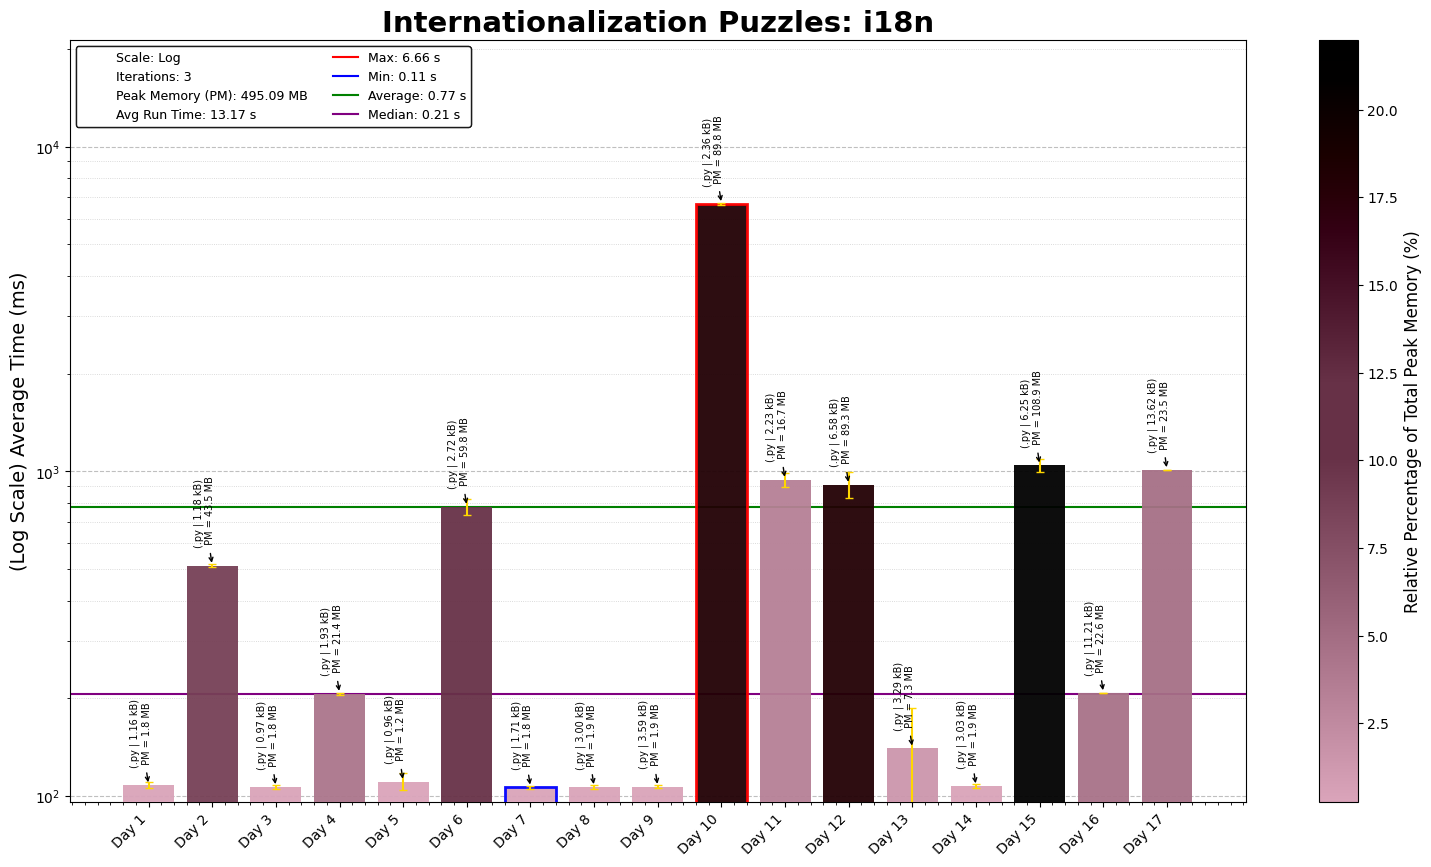
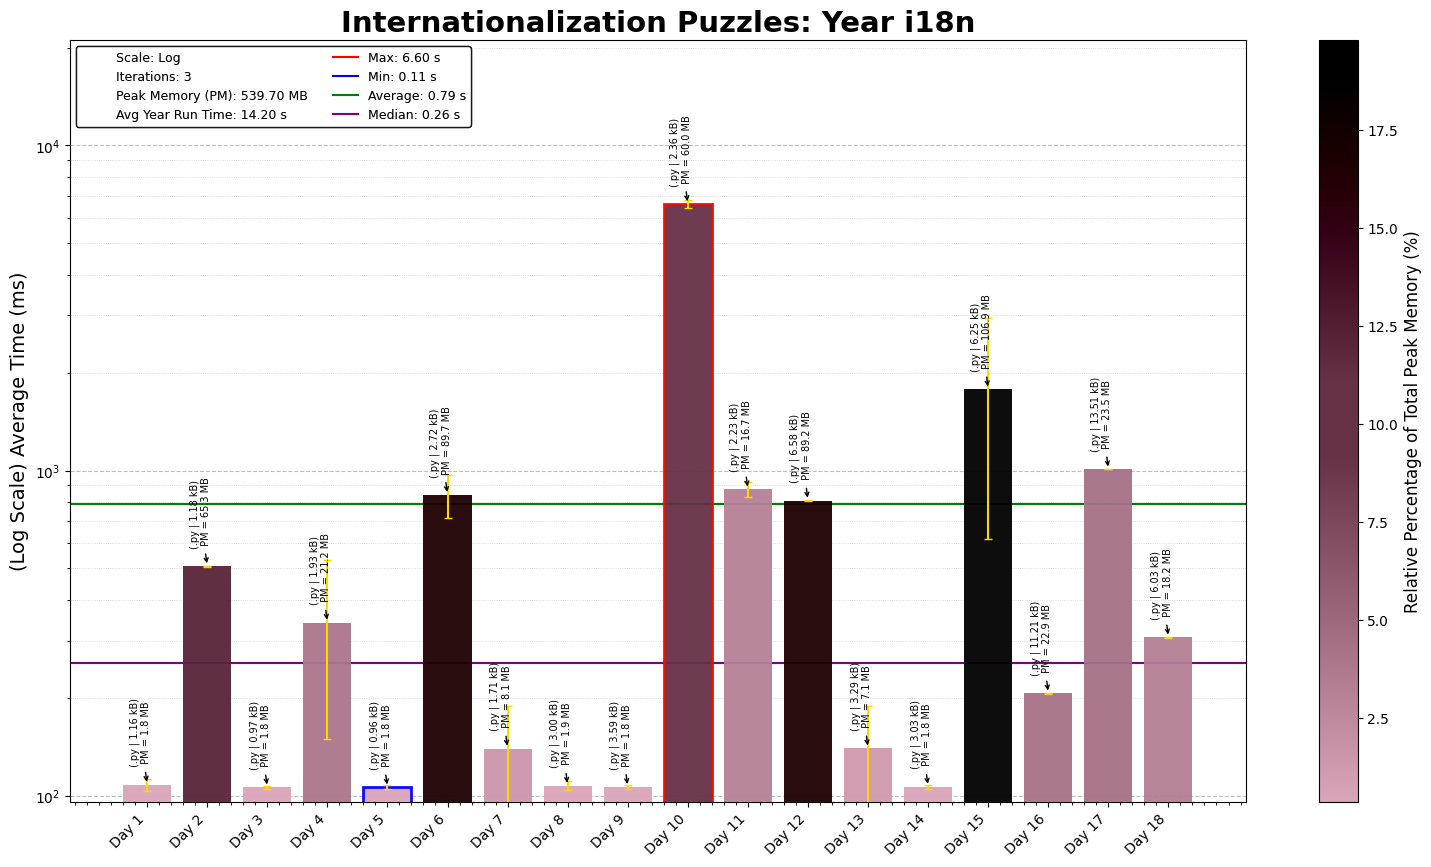
i18n Day 18 Final

diff --git a/i18n/18/i18nDay18.py b/i18n/18/i18nDay18.py
@@ -7,14 +7,11 @@ Brief: [Rex To Lynx]
 
 #!/usr/bin/env python3
 
-import os, re, copy, time
-import ast, operator
-import numpy as np
-import pandas as pd
+import os, re, copy, time, ast, operator
 start_time = time.time()
 
 # Load the input data from the specified file path
-D18_file = "Day18_input1.txt"
+D18_file = "Day18_input.txt"
 D18_file_path = os.path.join(os.path.dirname(os.path.abspath(__file__)), D18_file)
 
 # Read and sort input data into a grid
@@ -22,19 +19,14 @@ with open(D18_file_path, encoding="utf-8") as file:
     input_data = file.read().strip().split('\n')
 
 class Scam_Checker:
-    BIDI_CONTROLS = {
-        '\u200e': ("LRM", '⇉'), '\u200f': ("RLM", '⇇'),
-        '\u202a': ("LRE", '→'), '\u202b': ("RLE", '←'),
-        '\u202d': ("LRO", '}'), '\u202e': ("RLO", '{'),
-        '\u2066': ("LRI", '>'), '\u2067': ("RLI", '<'),
-        '\u2069': ("PDI", '^'), '\u202c': ("PDF", '◌'),
-        '\u2068': ("FSI", '⋄'),
-    }
-    REVERSE_DICT = {'(':')', ')':'('}
+    BIDI_CONTROLS = {'\u2067': '<', '\u2066': '>', '\u2069': '^'}
+    REVERSE_DICT  = {'(':')', ')':'(', '[': ']', ']': '[', '{': '}', '}': '{'}
 
-    @staticmethod
-    def convert_eq_dict(equation, shift = 0):
-        return {char_idx + shift: char for char_idx, char in enumerate(equation)}
+    def parse_equation(self, init_eq):
+        token_pattern = re.compile(
+            fr'([{re.escape("".join(self.BIDI_CONTROLS))}])|(\d+)|([()+\-*/])'
+        )
+        return [m.group(0) for part in init_eq.split() for m in token_pattern.finditer(part)]
 
     @staticmethod
     def evaluate_sum(equation: str):
@@ -43,7 +35,6 @@ class Scam_Checker:
             ast.Mult: operator.mul, ast.Div: operator.truediv,
             ast.USub: operator.neg,
         }
-
         def eval_node(node):
             if isinstance(node, ast.BinOp):
                 return ops[type(node.op)](eval_node(node.left), eval_node(node.right))
@@ -53,46 +44,31 @@ class Scam_Checker:
                 return node.value
             else:
                 raise ValueError("Unsupported expression")
-
         try:
             tree = ast.parse(equation, mode='eval')
-            result = eval_node(tree.body)
-            return int(result)
+            return round(eval_node(tree.body))
         except Exception as e:
             print(f"Error: {e}")
             return None
 
-    def project_rex(self, og_bill: str = ""):
+    def __strip_eq(self, full_eq):
         stripped_text = []
-        for c in og_bill:
+        for c in full_eq:
             if c not in self.BIDI_CONTROLS.keys():
                 stripped_text.append(c)
-        strip_bill = ''.join(stripped_text)
+        return ''.join(stripped_text)
+
+    def project_rex(self, og_bill):
+        strip_bill = self.__strip_eq(og_bill)
         bill_value = self.evaluate_sum(strip_bill)
-        return bill_value
+        return bill_value, strip_bill
 
-    def build_equation(self, use_eq):
-        return ''.join(self.BIDI_CONTROLS.get(c, (None, c))[1] for c in use_eq.values())
+    def __equation_str(self, use_eq):
+        return ''.join(self.BIDI_CONTROLS.get(c, c) for c, _ in use_eq.values())
 
-    def identify_embed_levels(self, eq_dict):
-        embed_level, embed_dict = (0, {})
-
-        for char_idx, char in eq_dict.items():
-            bidi_type, char = self.BIDI_CONTROLS.get(char, (None, char))
-            # Assign embedding level based on whether it's a digit and current embedding level is odd
-            embed_dict[char_idx] = embed_level + 1 \
-                if (char.isdigit() and embed_level % 2 == 1) else embed_level
-            # Update embedding level based on BIDI control characters
-            if bidi_type in {"RLI", "LRI"}:
-                embed_level += 1
-            elif bidi_type == "PDI":
-                embed_level = max(embed_level - 1, 0)
-                embed_dict[char_idx] = embed_level  # PDI overrides previous level assignment
-        return embed_dict
-
-    def identify_stretch(self, embed_dict, for_embed):
-        max_idx = sorted(idx for idx, level in embed_dict.items() if level == for_embed)
+    def __identify_stretch(self, eq_dict, for_embed):
         streaks, streak = ([], [])
+        max_idx = sorted(idx for idx, (_, level) in eq_dict.items() if level == for_embed)
         for idx in max_idx:
             if streak and idx != streak[-1] + 1:
                 streaks.append(streak)
@@ -102,80 +78,68 @@ class Scam_Checker:
             streaks.append(streak)
         return max(streaks, key=len)
 
-    def __flip_equation(self, eq_dict, embed_dict):
-        max_embed = max(embed_dict.values())
-        stretch = self.identify_stretch(embed_dict, max_embed)
-        # print(max_embed, stretch)
+    def __reverse_string(self, eq_dict):
         rev_eq = copy.deepcopy(eq_dict)
-        rev_embed = copy.deepcopy(embed_dict)
-        for c1, c2 in zip(stretch, stretch[::-1]):
-            rev_char = self.REVERSE_DICT.get(eq_dict[c2], eq_dict[c2])
-            rev_eq[c1] = rev_char
-            # rev_embed[c1] -= 1
-        for char_idx, idx_embed in embed_dict.items():
-            if idx_embed == max_embed:
-                rev_embed[char_idx] -= 1
-        return rev_eq, rev_embed
+        max_embed = max(emb for _, emb in eq_dict.values())
+        stretch = self.__identify_stretch(eq_dict, max_embed)
+        if len(stretch) <= 1:
+            rev_eq[stretch[0]][1] -=1
+        else:
+            for c1, c2 in zip(stretch, stretch[::-1]):
+                init_char, base_embed = eq_dict[c2]
+                rev_char = self.REVERSE_DICT.get(init_char, init_char)
+                rev_eq[c1] = [rev_char, base_embed - 1]
+        return rev_eq, stretch
 
-    def project_lynx(self, equation, visualize: bool = False):
-        # Input line short : 73 + (3 * (1 * ⏴(((3 + (6 - 2)) * 6) + ⏵((52 * 6) / ⏴(13 - (7 - 2))⏶)⏶)⏶))
-        # Input line short : 73 + (3 * (1 * <(((3 + (6 - 2)) * 6) + >((52 * 6) / <(13 - (7 - 2))^)^)^))
-        # Embedding levels : 00000000000000001112111121112111112111112222222222222344333343334332211000
-        # Flips            :                                                       --
-        #                                                                         --------------
-        #                                                            -----------------------------
-        #                                    -------------------------------------------------------
-        # After 1st flip   : 73 + (3 * (1 * <(((3 + (6 - 2)) * 6) + >((52 * 6) / <(31 - (7 - 2))^)^)^))
-        # After 2nd flip   : 73 + (3 * (1 * <(((3 + (6 - 2)) * 6) + >((52 * 6) / <((2 - 7) - 13)^)^)^))
-        # After 3rd flip   : 73 + (3 * (1 * <(((3 + (6 - 2)) * 6) + >(^(31 - (7 - 2))< / (6 * 25))^)^))
-        # After 4th flip   : 73 + (3 * (1 * <(^((52 * 6) / <((2 - 7) - 13)^)> + (6 * ((2 - 6) + 3)))^))
-        # Result           : 73 + (3 * (1 * (((52 * 6) / ((2 - 7) - 13)) + (6 * ((2 - 6) + 3)))))
-        eq_dict = self.convert_eq_dict(equation)
-        embed_dict = self.identify_embed_levels(eq_dict)
-        if visualize:
-            embed_str = [str(embed_dict[idx]) for idx in sorted(embed_dict.keys())]
-            print("Input line short :", self.build_equation(eq_dict))
+    def project_lynx(self, equation, debug: bool = False):
+        eq_dict, embed_level, max_embed, flip_no = ({}, 0, 0, 0)
+        for char_idx, char in enumerate(equation):
+            # Determine effective embed level for this character
+            level = embed_level + 1 if (char.isdigit() and embed_level % 2 == 1) else embed_level
+            eq_dict[char_idx] = [char, level]
+            max_embed = max(max_embed, level)
+            # Update embedding level based on BIDI control characters
+            if char in {"\u2067", "\u2066"}:  # RLI, LRI
+                embed_level += 1
+            elif char == "\u2069":  # PDI
+                embed_level = max(embed_level - 1, 0)
+                eq_dict[char_idx][1] = embed_level  # override level for PDI
+        if debug:
+            embed_str = [str(eq_dict[idx][1]) * len(str(eq_dict[idx][0])) for idx in sorted(eq_dict)]
+            print("Input line short :", self.__equation_str(eq_dict))
             print("Embedding levels :", ''.join(embed_str))
-        flip_no = 0
-        while True:
-            rev_eq, rev_embed = self.__flip_equation(eq_dict, embed_dict)
-            flip_no += 1
-            if visualize:
-                print(f"Eq after {flip_no} flips : {self.build_equation(rev_eq)}")
-            eq_dict = rev_eq
-            embed_dict = rev_embed
-            max_embed = max(embed_dict.values())
-            if max_embed == 0:
-                break
-        stripped_text = []
-        for c in eq_dict.values():
-            if c not in self.BIDI_CONTROLS.keys():
-                stripped_text.append(c)
-        strip_bill = ''.join(stripped_text)
-        bill_value = self.evaluate_sum(strip_bill)
-        return bill_value
+
+        while max_embed >= 1:
+            eq_dict, flip_stretch = self.__reverse_string(eq_dict)
+            max_embed = max(level for (_, level) in eq_dict.values())
+            if debug and len(flip_stretch) >= 2:
+                flip_no += 1
+                flip_str = ''.join(
+                    '_' * len(char) if idx in flip_stretch else ' ' * len(char)
+                    for idx, (char, _) in eq_dict.items()
+                )
+                print(f"  Flip Positions :", flip_str)
+                print(f"  After {flip_no:02d} flips : {self.__equation_str(eq_dict)}")
+        flipped_bill = ''.join(char for char, _ in eq_dict.values())
+        stripped_bill = self.__strip_eq(flipped_bill)
+        bill_value = self.evaluate_sum(stripped_bill)
+        return bill_value, stripped_bill
 
     def count_scams(self, bill_list, debug: bool = False):
         scam_counter = {}
-        for bill_no, bill in enumerate(bill_list[4:], start = 1):
-            rex_value = self.project_rex(bill)
-            lynx_value = self.project_lynx(bill, debug)
+        for bill_no, bill in enumerate(bill_list, start = 1):
+            parsed_bill = self.parse_equation(bill)
+            rex_value, rex_eq = self.project_rex(parsed_bill)
+            lynx_value, lynx_eq = self.project_lynx(parsed_bill, debug)
             abs_diff = abs(rex_value - lynx_value)
             scam_counter[bill_no] = abs_diff
             if debug:
+                print(" Rex Eq:", rex_eq)
+                print("Lynx Eq:", lynx_eq)
                 print(f"Bill {bill_no}: Abs_diff = {abs_diff} | Lynx = {lynx_value} | Rex = {rex_value}")
         return scam_counter
 
-
-total_scams = Scam_Checker().count_scams(input_data, True)
+total_scams = Scam_Checker().count_scams(input_data)
 print("Total Scams Value:", sum(total_scams.values()))
 
-print(f"Execution Time = {time.time() - start_time:.5f}s")
-
-# Line 1 according to Lynx: 66, but according to Rex: 42. The absolute difference is: 24.
-# Line 2 according to Lynx: 65, but according to Rex: 260. The absolute difference is: 195.
-# Line 3 according to Lynx: 30720, but according to Rex: 15040. The absolute difference is: 15680.
-# Line 4 according to Lynx: 5851, but according to Rex: 6300. The absolute difference is: 449.
-# Line 5 according to Lynx: 139, but according to Rex: 2760. The absolute difference is: 2621.
-# Line 6 according to Lynx: 3, but according to Rex: 316. The absolute difference is: 313.
-
+# print(f"Execution Time = {time.time() - start_time:.5f}s")
